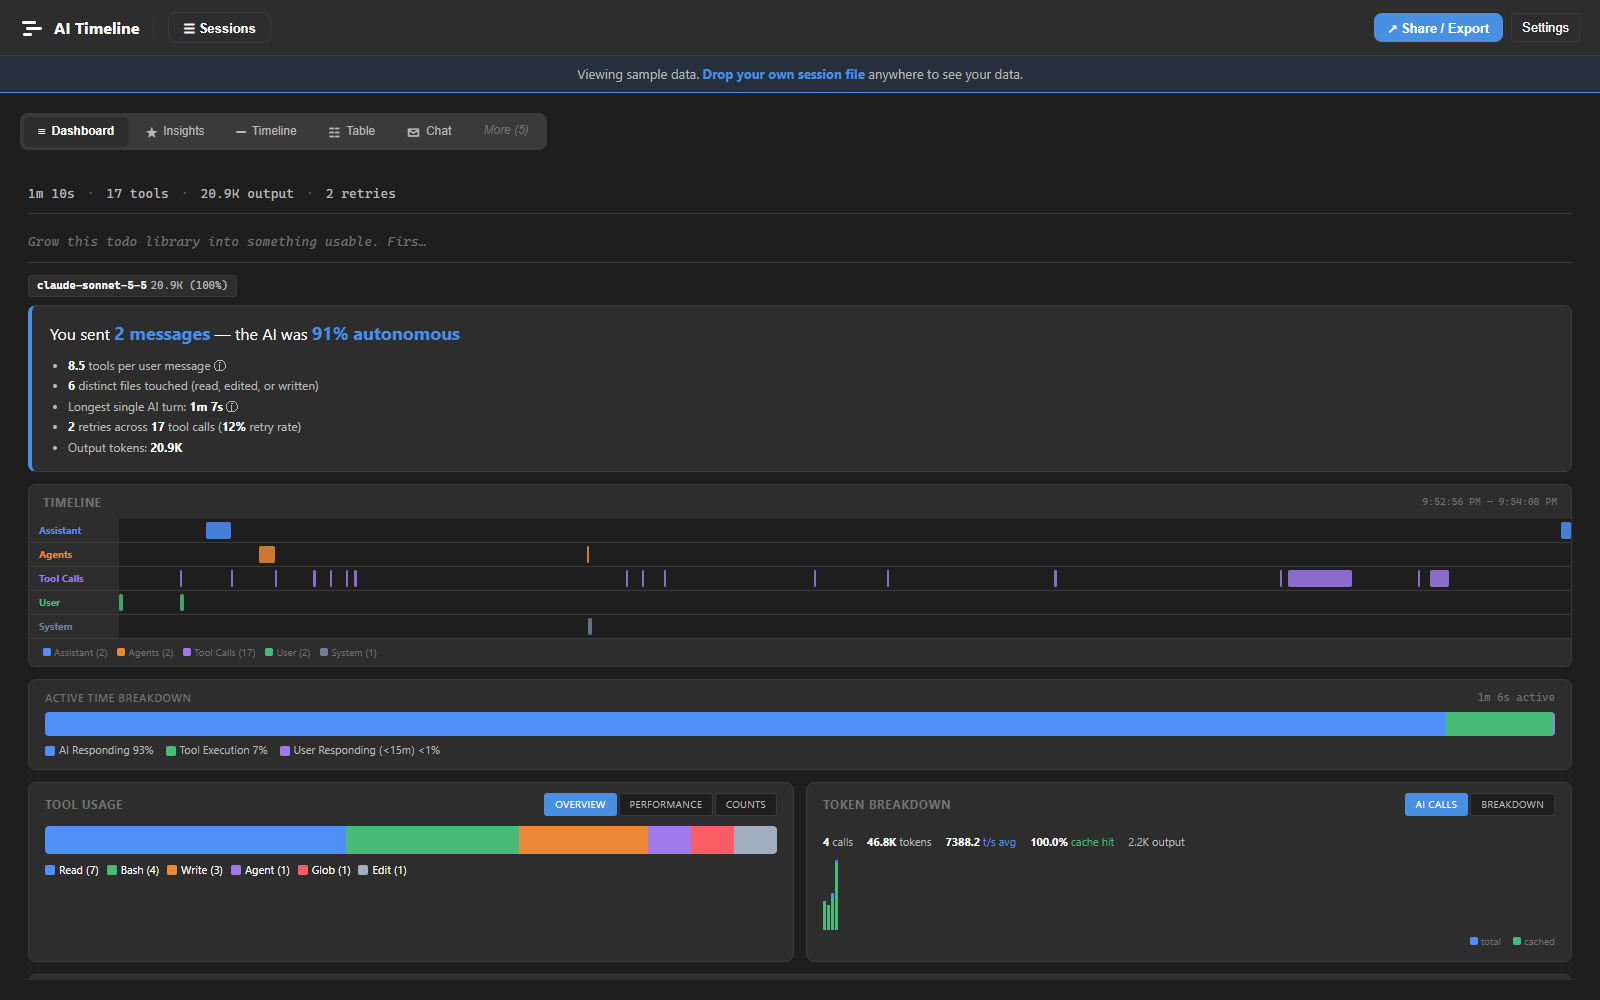
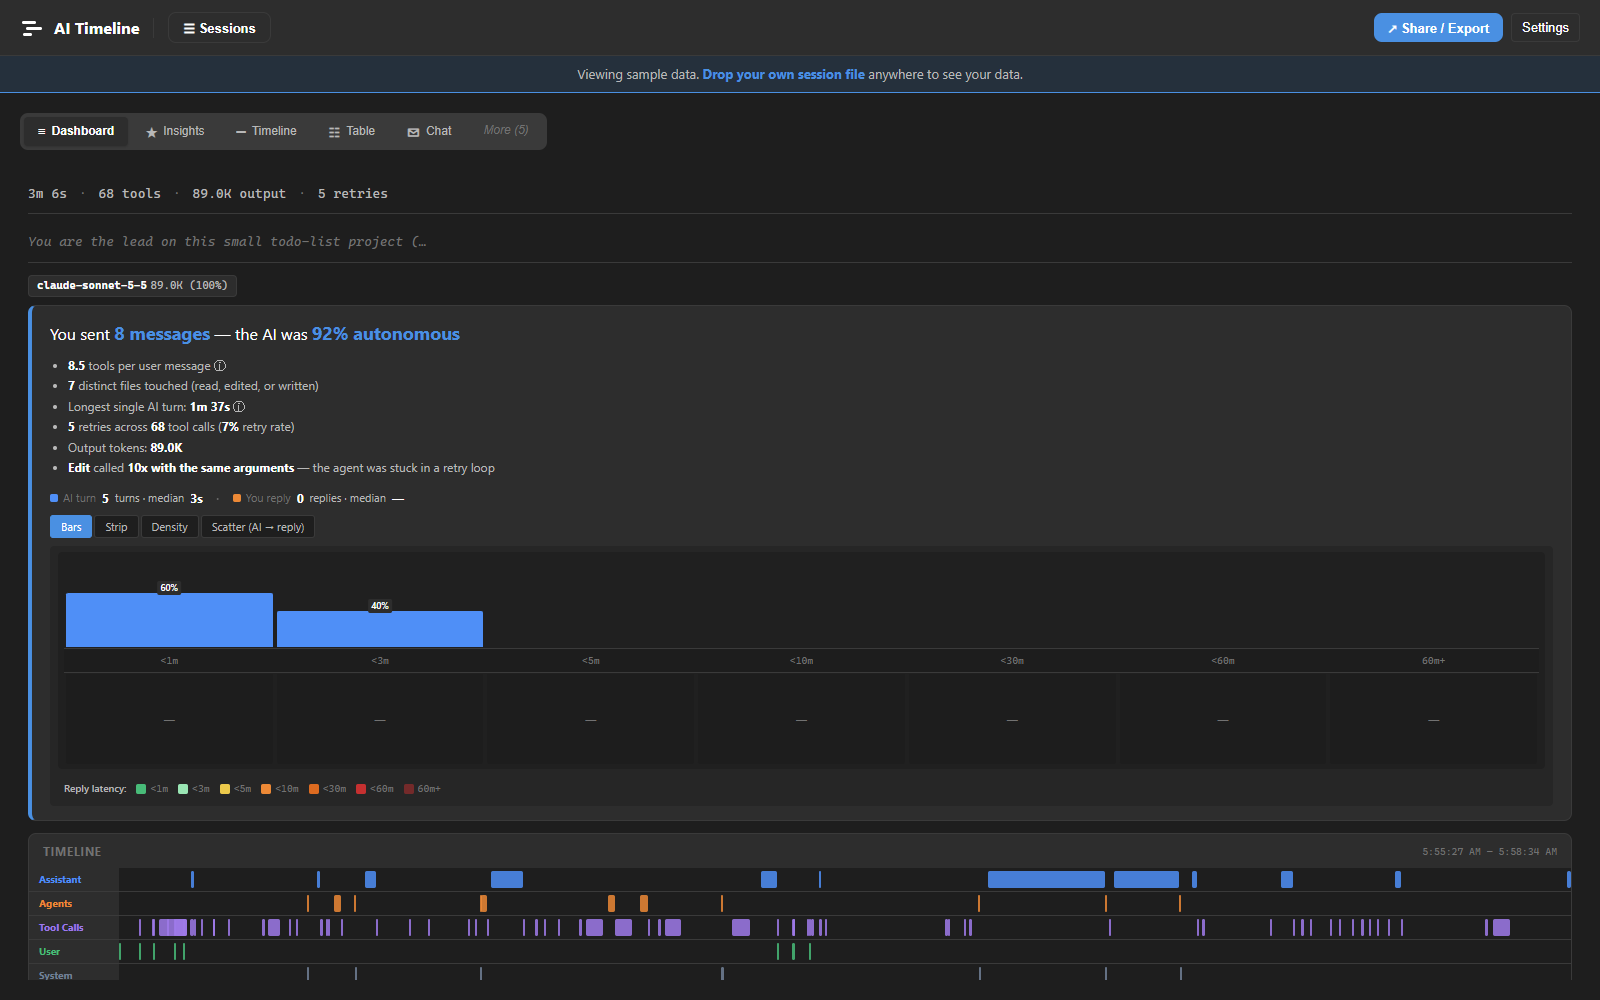
Pre-release cleanup: remove private-project references, fix live-mode probe, and refresh hero screenshot
- Remove all TicketForge references (dead private project) from src/, docs/,
  and tests/; rename tryTicketForgeExport() to tryGenericInstancesExport()
  and generalize its schema doc; replace TicketForge examples in
  export-spec.md, app.ts placeholder, and test fixtures with generic
  harness names.
- Drop the dead github.com/MarkDickinsonBros/vett link from the VETT
  parser doc comment; describe VETT as "an agent harness" instead.
- Correct README's view-plugin count (22 -> 10 registered, 13 unfinished
  prototypes kept on disk but not wired into plugins.ts).
- Gate the VETT live-mode healthz probe behind an explicit opt-in
  (liveModeEnabled setting + a real Settings > Live Sources entry point)
  so a default page load makes zero network requests to
  localhost:5151/healthz. Verified with Playwright: cold load now shows
  0 requestfailed events and 0 console errors.
- Fix aria-expanded on the "More" view-switcher dropdown trigger.
- Fix package.json's "dev" script: it was missing the --config vite.config.ts
  flag that "build" already had, so `npm run dev` silently ran under Vite's
  default config (no publicDir, no worker format) and 404'd every request
  under public/ (samples, manifest.json, sw.js) via the SPA fallback. This
  was blocking the sample-session flow documented in the README's "Run
  locally" section.
- Replace assets/hero.png with a fresh Dashboard-view screenshot (1600x1000,
  matching the old file's dimensions) of the bundled public sample session
[…]

diff --git a/src/web/app.ts b/src/web/app.ts
@@ -580,7 +580,10 @@ export function initApp(root: HTMLElement) {
     }
     // After the initial render is wired, probe known live sources so the
     // banner / auto-connect can fire without blocking first paint.
-    void discoverLiveSourcesOnOpen();
+    // Only when the user has explicitly turned live mode on (Settings
+    // toggle, or previously starting a live source) — a default cold load
+    // must issue zero network requests to any live-source host.
+    if (getLiveModeEnabled()) void discoverLiveSourcesOnOpen();
   });
 }
 
@@ -1090,7 +1093,26 @@ const LIVE_LS = {
   vettPort: "tv-live-vett-port",
   autoConnect: "tv-live-auto-connect",
   dismissedDiscovery: "tv-live-dismissed-discovery", // session-scoped (we use sessionStorage)
+  liveModeEnabled: "tv-live-mode-enabled",
 };
+
+/**
+ * Live mode is OFF by default. Until the user explicitly opts in (the
+ * Settings toggle, or by starting a live source through the "Connect to a
+ * live source…" action), a cold load must make ZERO network requests to
+ * any live-source host — no healthz probing, nothing. Once opted in, we
+ * probe known targets on every app open so reconnects/discovery work.
+ */
+function getLiveModeEnabled(): boolean {
+  try { return localStorage.getItem(LIVE_LS.liveModeEnabled) === "1"; } catch { return false; }
+}
+
+function setLiveModeEnabled(on: boolean) {
+  try {
+    if (on) localStorage.setItem(LIVE_LS.liveModeEnabled, "1");
+    else localStorage.removeItem(LIVE_LS.liveModeEnabled);
+  } catch { /* ignore */ }
+}
 
 function getLastVettTarget(): { host: string; port: number } | null {
   try {
@@ -1152,6 +1174,9 @@ async function probeVettHealthz(host: string, port: number, timeoutMs = 1200): P
  * dismissible discovery banner with one-click connect.
  */
 async function discoverLiveSourcesOnOpen() {
+  // Defense in depth: never probe unless the user has opted into live mode,
+  // even if this function is ever called from a new code path.
+  if (!getLiveModeEnabled()) return;
   // Don't probe if vett-live is already connected.
   if (state.liveSources.has("vett-live")) return;
 
@@ -1223,6 +1248,12 @@ function mergeLiveTrajectories(incoming: Trajectory[]) {
 }
 
 function startLiveSource(sourceId: string, config: Record<string, unknown>) {
+  // Actually starting a live source IS the explicit "live-mode UI action" —
+  // flip the persisted opt-in so future app opens are allowed to probe for
+  // reconnect/discovery. (Independent of the Settings toggle, which is the
+  // other way to opt in up front.)
+  setLiveModeEnabled(true);
+
   // Replace if same id is already running; leave other sources alone.
   const prior = state.liveSources.get(sourceId);
   if (prior) {
@@ -1633,7 +1664,7 @@ function openExportModal() {
   harnessInput.type = "text";
   harnessInput.className = "tv-modal-source-name";
   harnessInput.style.width = "100%";
-  harnessInput.placeholder = "e.g., TicketForge, OpenHands, SWE-Agent";
+  harnessInput.placeholder = "e.g., OpenHands, SWE-Agent, Aider";
   const harnessRow = el("div", "tv-modal-row");
   harnessRow.innerHTML = "<span>Harness</span>";
   harnessRow.appendChild(harnessInput);
@@ -2350,6 +2381,47 @@ function openSettingsModal() {
   generalSection.appendChild(costRow);
 
   body.appendChild(generalSection);
+
+  // ── Live Sources Section ──
+  // Off by default: a cold app open must make zero network requests to any
+  // live-source host. The user has to explicitly opt in here (or by using
+  // "Connect to a live source…" below, which opts in for them) before we
+  // probe for a running VETT server / auto-reconnect on future opens.
+  if (!consumerPkg) {
+    const liveSection = el("div", "tv-modal-section");
+    liveSection.innerHTML = `<h3>Live Sources</h3><p class="tv-modal-hint">Stream a running session (VETT <code>--live-port</code>, etc.) instead of loading a static file. Off by default — no network requests until you turn this on.</p>`;
+
+    const liveModeRow = el("div", "tv-modal-row");
+    liveModeRow.innerHTML = `
+      <label>
+        <span class="tv-modal-label">Live mode</span>
+        <span class="tv-modal-hint">When on, probe known live-source targets (e.g. localhost:5151) on app open, so reconnect/discovery works automatically.</span>
+      </label>
+    `;
+    const liveModeToggle = document.createElement("input");
+    liveModeToggle.type = "checkbox";
+    liveModeToggle.checked = getLiveModeEnabled();
+    liveModeToggle.setAttribute("aria-label", "Enable live mode");
+    liveModeToggle.onchange = () => {
+      setLiveModeEnabled(liveModeToggle.checked);
+      if (liveModeToggle.checked) void discoverLiveSourcesOnOpen();
+    };
+    liveModeRow.appendChild(liveModeToggle);
+    liveSection.appendChild(liveModeRow);
+
+    const liveConnectRow = el("div", "tv-modal-row");
+    const liveConnectBtn = document.createElement("button");
+    liveConnectBtn.className = "tv-btn";
+    liveConnectBtn.textContent = "Connect to a live source…";
+    liveConnectBtn.onclick = () => {
+      overlay.remove();
+      openLiveSourceModal();
+    };
+    liveConnectRow.appendChild(liveConnectBtn);
+    liveSection.appendChild(liveConnectRow);
+
+    body.appendChild(liveSection);
+  }
 
   // ── Views Section ──
   const viewsSection = el("div", "tv-modal-section");
@@ -3533,7 +3605,11 @@ function renderDetail(): HTMLElement {
       moreBtn.onclick = (e) => {
         e.stopPropagation();
         const existing = document.querySelector(".tv-more-dropdown");
-        if (existing) { existing.remove(); return; }
+        if (existing) {
+          existing.remove();
+          moreBtn.setAttribute("aria-expanded", "false");
+          return;
+        }
 
         const dropdown = el("div", "tv-more-dropdown");
 
@@ -3578,9 +3654,11 @@ function renderDetail(): HTMLElement {
         }
 
         moreWrap.appendChild(dropdown);
+        moreBtn.setAttribute("aria-expanded", "true");
         setTimeout(() => {
           document.addEventListener("click", function closer() {
             dropdown.remove();
+            moreBtn.setAttribute("aria-expanded", "false");
             document.removeEventListener("click", closer);
           });
         }, 0);

diff --git a/src/vscode/extension.ts b/src/vscode/extension.ts
@@ -205,7 +205,7 @@ interface BenchmarkInstance {
 
 interface BenchmarkRun {
   name: string;          // Display name
-  source: string;        // "SWE-agent" | "OpenHands" | "TicketForge" | folder name
+  source: string;        // "SWE-agent" | "OpenHands" | "Custom" | folder name
   folderPath: string;
   loadedAt: number;
   instances: BenchmarkInstance[];
@@ -227,9 +227,10 @@ function parseBenchmarkFolder(folderPath: string): BenchmarkRun | null {
     const ohRun = tryOpenHands(folderPath);
     if (ohRun) return ohRun;
 
-    // Try TicketForge JSON/JSONL export
-    const tfRun = tryTicketForgeExport(folderPath);
-    if (tfRun) return tfRun;
+    // Try generic JSON/JSONL export (any harness that emits an
+    // { instances: [...] } summary, or one JSON object per line)
+    const genericRun = tryGenericInstancesExport(folderPath);
+    if (genericRun) return genericRun;
 
     // Fallback: just list trajectory files
     return tryGenericTrajectories(folderPath);
@@ -536,7 +537,14 @@ function tryOpenHands(folderPath: string): BenchmarkRun | null {
   };
 }
 
-function tryTicketForgeExport(folderPath: string): BenchmarkRun | null {
+/**
+ * Generic instances-array export: a folder containing either
+ *   - a JSON file shaped like { suite, runId, instances: [...] }, or
+ *   - a JSONL file with one instance object per line (instanceId required)
+ * This is a schema, not a specific tool's format — any harness that emits
+ * one of these two shapes is picked up here.
+ */
+function tryGenericInstancesExport(folderPath: string): BenchmarkRun | null {
   const entries = fs.readdirSync(folderPath);
 
   // JSON with { suite, instances: [...] }
@@ -566,7 +574,7 @@ function tryTicketForgeExport(folderPath: string): BenchmarkRun | null {
         });
         return {
           name: data.suite ? `${data.suite} #${data.runId || ""}` : path.basename(entry, ".json"),
-          source: "TicketForge",
+          source: "Custom",
           folderPath,
           loadedAt: Date.now(),
           instances,
@@ -601,7 +609,7 @@ function tryTicketForgeExport(folderPath: string): BenchmarkRun | null {
         } catch {}
       }
       if (instances.length > 0) {
-        return { name: path.basename(entry, ".jsonl"), source: "TicketForge", folderPath, loadedAt: Date.now(), instances };
+        return { name: path.basename(entry, ".jsonl"), source: "Custom", folderPath, loadedAt: Date.now(), instances };
       }
     } catch {}
   }
@@ -1972,7 +1980,7 @@ export function activate(context: vscode.ExtensionContext) {
     if (!run) {
       vscode.window.showWarningMessage(
         "No benchmark data found. Expected: SWE-agent (<instance>/trajectories/agent.traj), " +
-        "OpenHands (<instance>/trajectories/trajectory.json), or TicketForge export (.json/.jsonl with instances array)."
+        "OpenHands (<instance>/trajectories/trajectory.json), or a custom export (.json/.jsonl with instances array)."
       );
       return;
     }

diff --git a/src/common/types.ts b/src/common/types.ts
@@ -29,7 +29,7 @@ export interface Trajectory {
    * in exactly one trajectory's `toolUseUuids`, and that trajectory is the
    * real parent that spawned it. */
   toolUseUuids?: string[];
-  /** Test results from build/test execution (e.g., TicketForge verification) */
+  /** Test results from build/test execution (e.g., CI verification) */
   testResults?: TestResults;
   /** AI-generated analysis — structured review of the session (why it passed/failed) */
   analysis?: SessionAnalysis;
@@ -156,7 +156,7 @@ export interface SessionInfo {
   metadata?: Record<string, unknown>;
 }
 
-/** Agent/team member info — supports TicketForge multi-agent workflows */
+/** Agent/team member info — supports multi-agent workflows */
 export interface AgentInfo {
   name: string;
   role?: string;
@@ -198,7 +198,7 @@ export interface TrajectoryEvent {
   durationMs?: number;
   /** Agent/team member who produced this event (multi-agent support) */
   agent?: string;
-  /** Whether context compaction was triggered (TicketForge) */
+  /** Whether context compaction was triggered */
   contextCompacted?: boolean;
   /** Stage in the pipeline: queue, processing, verify, etc. */
   stage?: string;

diff --git a/tests/analysis-system.test.ts b/tests/analysis-system.test.ts
@@ -169,7 +169,7 @@ describe("BenchmarkRun — Full Structure", () => {
   it("should support a complete benchmark run with instances", () => {
     const run: BenchmarkRun = {
       name: "SWE-bench Verified Q2 2026",
-      harness: "TicketForge",
+      harness: "CustomHarness",
       date: "2026-04-04T00:00:00Z",
       config: { model: "claude-opus-4-6", temperature: 1.0, maxIterations: 100 },
       instances: [
@@ -220,13 +220,13 @@ describe("ExportPackage — Full Structure", () => {
     const pkg: ExportPackage = {
       version: "1.0",
       exportedAt: "2026-04-04T02:00:00Z",
-      title: "SWE-bench Results - TicketForge v2.1",
+      title: "SWE-bench Results - CustomHarness v2.1",
       enabledViews: ["dashboard", "gantt", "benchmark", "analysis", "test-results", "findings"],
       showSidebar: true,
       trajectories: trajs,
       benchmark: {
         name: "SWE-bench Verified",
-        harness: "TicketForge",
+        harness: "CustomHarness",
         date: "2026-04-04T00:00:00Z",
         instances: [
           { instanceId: "django-15277", sessionId: "sess-001", status: "passed" },

diff --git a/src/views/gantt.ts b/src/views/gantt.ts
@@ -1,6 +1,6 @@
 /**
  * Gantt View — full-featured execution timeline.
- * Modeled after TicketForge's processing breakdown.
+ * Modeled after a typical benchmark harness's processing breakdown.
  *
  * Features:
  * - Swimlane rows by activity type (AI responses, tool calls, thinking)
@@ -2268,7 +2268,7 @@ function renderDetailPanel(entry: TimelineEntry, s: GanttState): HTMLElement {
     body.appendChild(contextContainer);
   }
 
-  // ── Always show 3 messages matching TicketForge pattern ──
+  // ── Always show 3 messages matching the standard pattern ──
   // For tool_call:  RESPONSE (AI text) → tool call args → TOOL result [NEW]
   // For ai_call:    RESPONSE [NEW] (AI text) → tool call preview (if next is tool)
   // For thinking:   THINKING content

diff --git a/src/parsers/vett.ts b/src/parsers/vett.ts
@@ -9,9 +9,9 @@ import {
 /**
  * Parser for Vett benchmark run exports.
  *
- * Vett (https://github.com/MarkDickinsonBros/vett) is a lean benchmark
- * harness for AI coding agents. Each run produces a single JSON file
- * containing a RunResult with one or more InstanceResults inside.
+ * VETT, an agent harness, is a lean benchmark runner for AI coding agents.
+ * Each run produces a single JSON file containing a RunResult with one or
+ * more InstanceResults inside.
  *
  * File pattern: results/{suite}_{profile}_{timestamp}.json
  *

diff --git a/src/views/test-results.ts b/src/views/test-results.ts
@@ -1,6 +1,6 @@
 /**
  * Test Results View — shows unit test pass/fail from the session.
- * TicketForge stores full test output; other tools may have partial data
+ * Some harnesses store full test output; other tools may have partial data
  * from tool_result events that contain test output.
  */
 

diff --git a/docs/export-spec.md b/docs/export-spec.md
@@ -17,7 +17,7 @@ When the Producer clicks Export, they get a config modal:
 
 ### Benchmark Metadata (Optional)
 - **Benchmark name** — e.g., "SWE-bench Verified Q2 2026"
-- **Harness** — e.g., "TicketForge", "OpenHands", "SWE-Agent"
+- **Harness** — e.g., "OpenHands", "SWE-Agent", "Aider"
 - **Per-session results** — pass/fail/error status, mapped to verification results
 - **Instance mapping** — tie session IDs to benchmark instance IDs (e.g., "django__django-15277")
 - **Notes** — freeform text per session or for the overall export
@@ -64,13 +64,13 @@ Acceptable for sharing. GitHub can render files up to 10MB in browser; larger fi
 
 ## Benchmark Integration
 
-For TicketForge and other harnesses that run N instances:
+For harnesses that run N instances:
 
 ### Benchmark Run Model
 ```typescript
 interface BenchmarkRun {
   name: string;           // "SWE-bench Verified Run 1074"
-  harness: string;        // "TicketForge" | "OpenHands" | "SWE-Agent"
+  harness: string;        // "OpenHands" | "SWE-Agent" | "Aider"
   date: string;           // ISO date
   config?: Record<string, unknown>; // model, temperature, etc.
   instances: BenchmarkInstance[];
@@ -88,7 +88,7 @@ interface BenchmarkInstance {
 
 ### How it appears in the UI
 - Dashboard shows pass/fail rate, per-instance table with status badges
-- Gantt shows instance ID as swimlane group header (like TicketForge's ticket tabs)
+- Gantt shows instance ID as swimlane group header (like a benchmark harness's per-instance tabs)
 - Filter by status: All | Passed | Failed | Error
 - Click instance → see that session's full trajectory
 

diff --git a/README.md b/README.md
@@ -97,7 +97,7 @@ Plugin architecture — parsers and views are drop-in modules.
 ```
 src/
   parsers/     — 11 parser plugins (one per format)
-  views/       — 22 view plugins
+  views/       — 10 registered view plugins (13 more are unfinished prototypes kept on disk, not registered)
   plugins.ts   — One import = one plugin
   common/      — Shared types and registry
 tests/         — 1,000+ tests across 29 files
